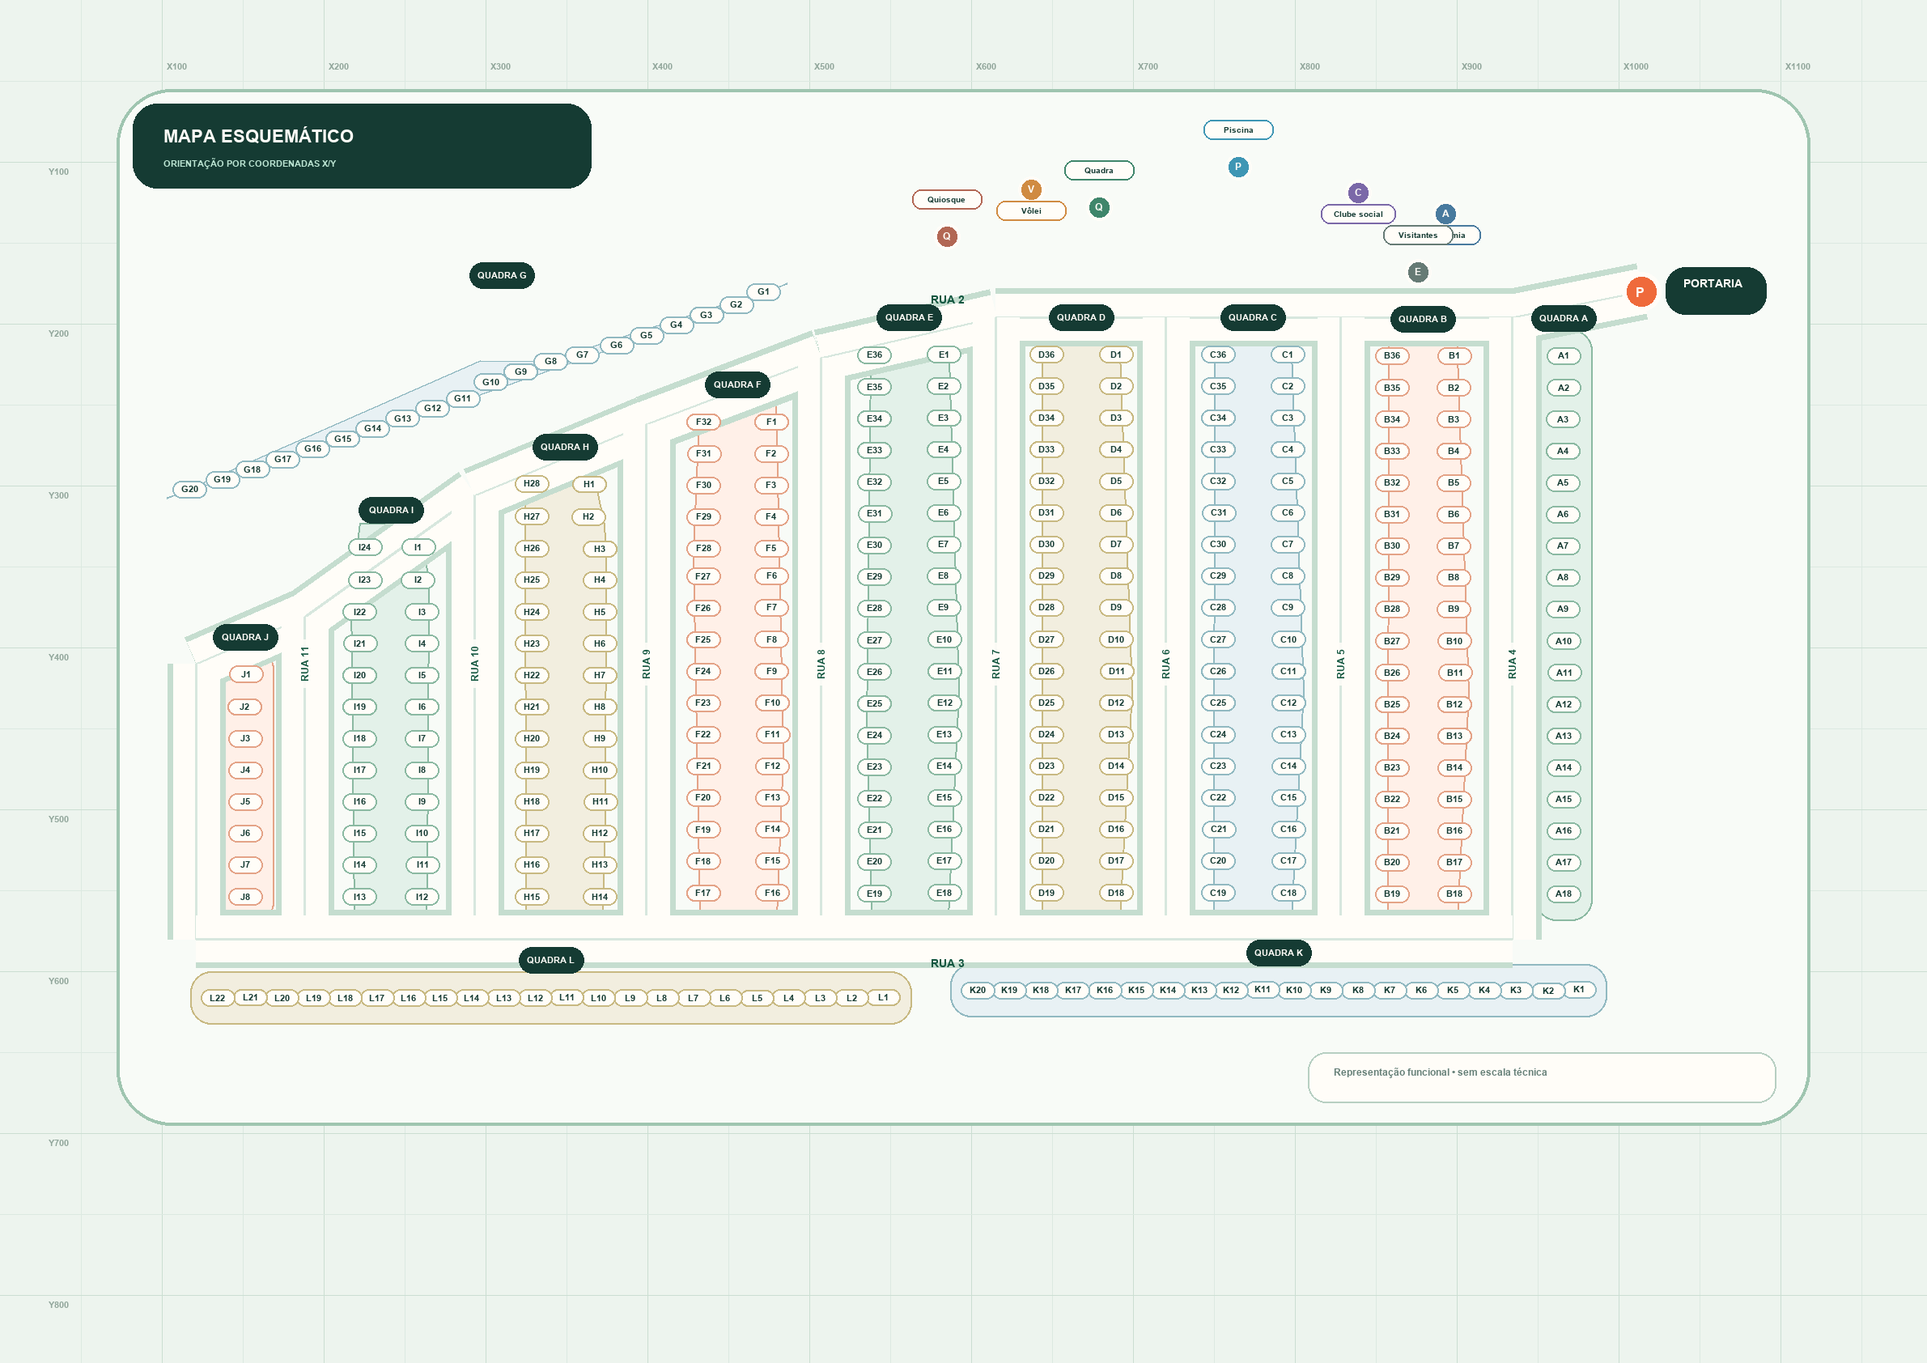
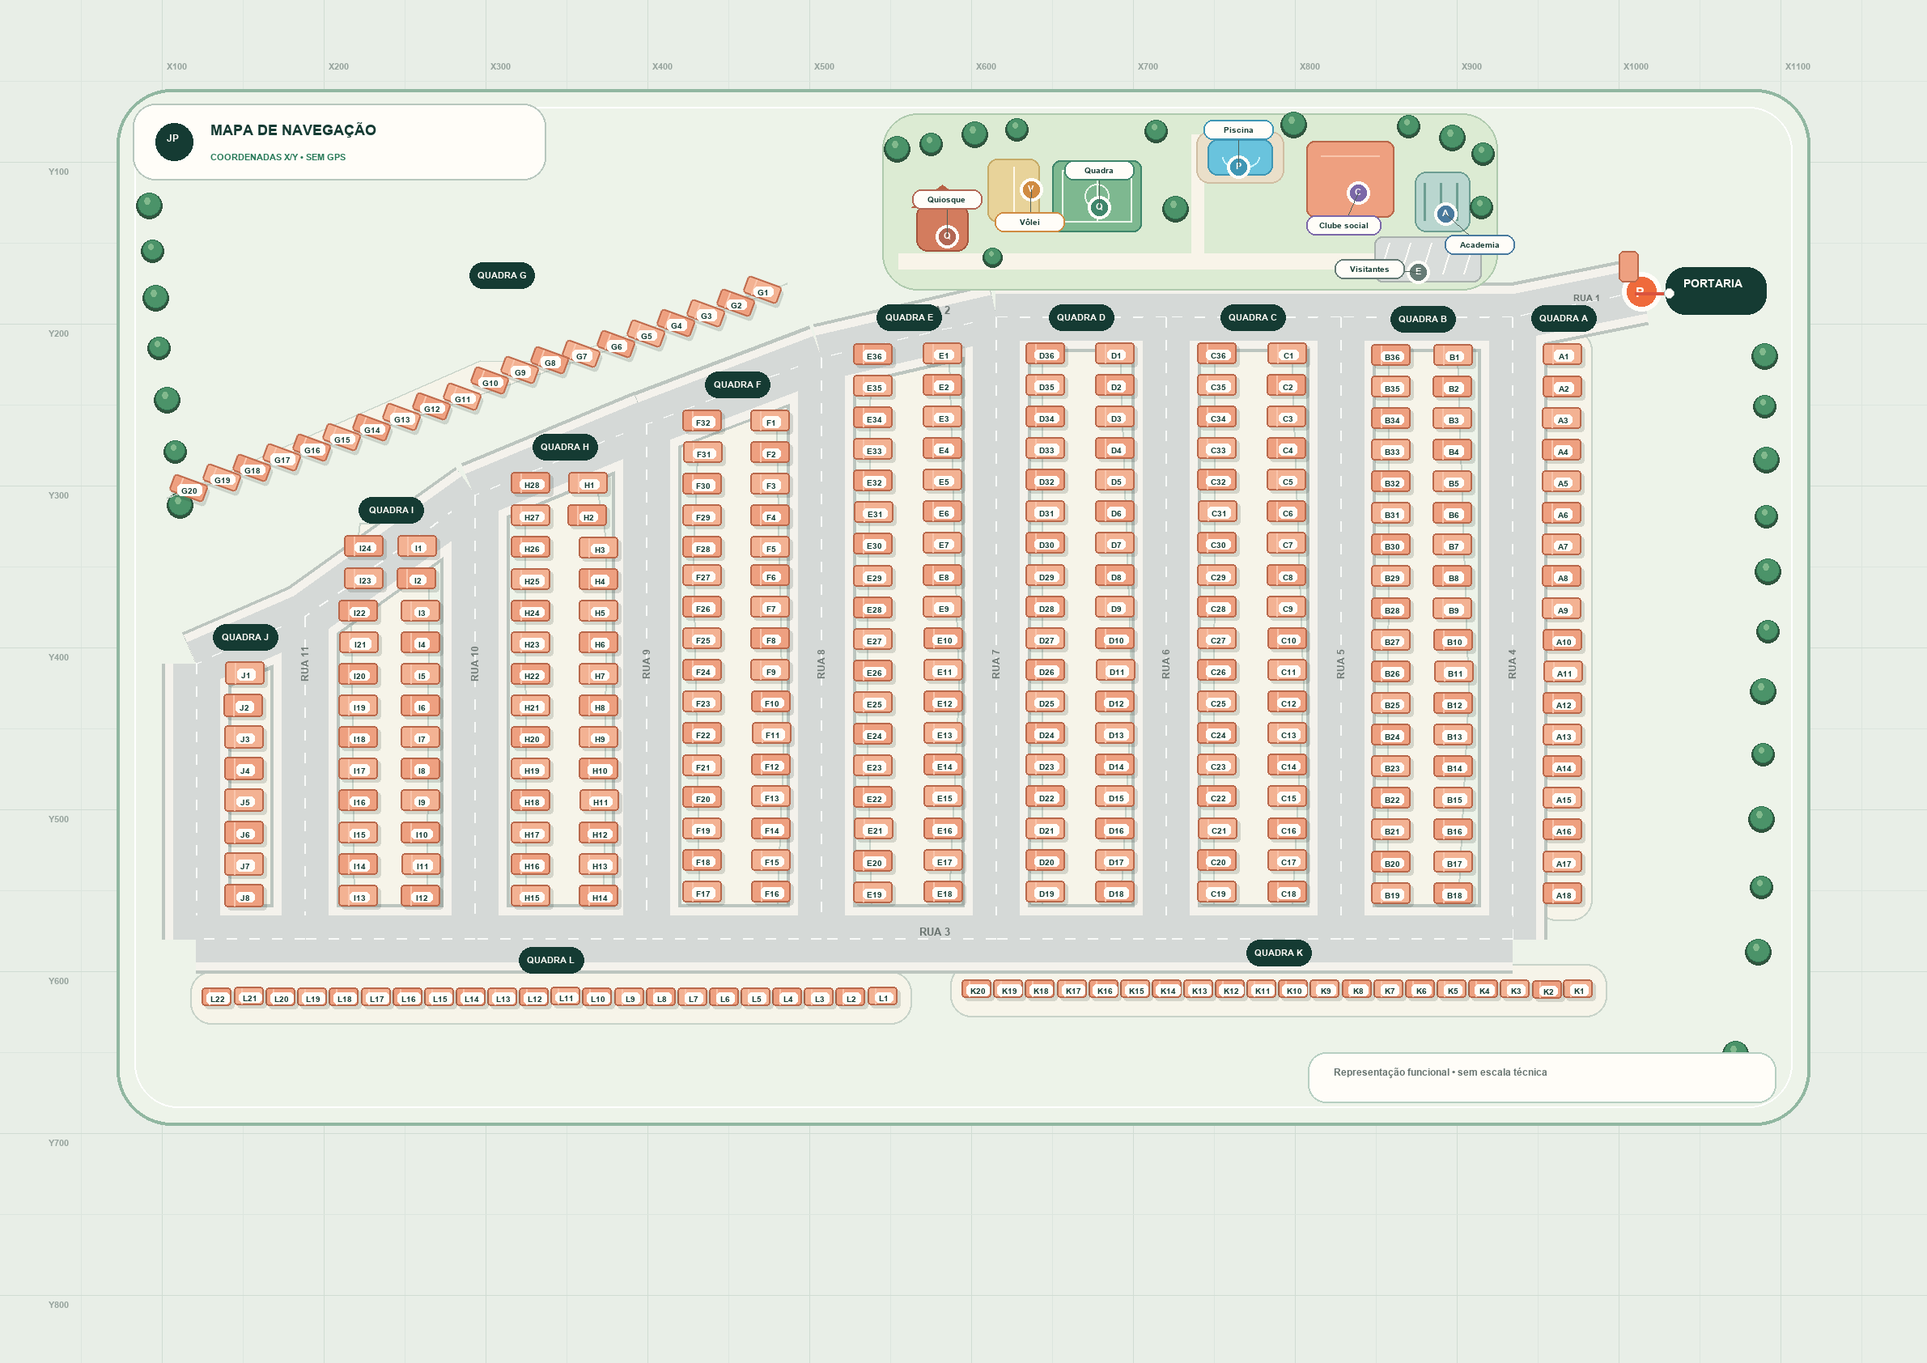
feat: add cartographic map styling

diff --git a/src/app/globals.css b/src/app/globals.css
@@ -125,10 +125,10 @@ h1 { margin: 0; font-size: clamp(24px, 3vw, 36px); letter-spacing: -.045em; line
 .condo-map { display: block; width: 100%; height: 100%; cursor: grab; touch-action: none; user-select: none; }
 .condo-map:active { cursor: grabbing; }
 .condo-map image { opacity: 1; }
-.road-network line { stroke: rgba(29, 118, 87, .18); stroke-width: 2.2; stroke-dasharray: 5 5; vector-effect: non-scaling-stroke; }
+.road-network line { stroke: rgba(29, 118, 87, .08); stroke-width: 1.7; stroke-dasharray: 4 8; vector-effect: non-scaling-stroke; }
 .house-target { cursor: pointer; outline: none; }
 .house-hit-area { fill: transparent; pointer-events: all; }
-.house-point { fill: rgba(29, 118, 87, .09); stroke: rgba(29, 118, 87, .48); stroke-width: 1; transition: fill .15s, stroke .15s; vector-effect: non-scaling-stroke; pointer-events: none; }
+.house-point { fill: transparent; stroke: transparent; stroke-width: 1; transition: fill .15s, stroke .15s; vector-effect: non-scaling-stroke; pointer-events: none; }
 .house-target:focus-visible .house-point { fill: rgba(29, 118, 87, .72); stroke: white; stroke-width: 2; }
 .house-point.quadra-selected { fill: rgba(29, 118, 87, .44); }
 .house-point.selected { fill: var(--accent); stroke: white; stroke-width: 2; }

diff --git a/scripts/generate_schematic_map.py b/scripts/generate_schematic_map.py
@@ -24,21 +24,25 @@ MAP_HEIGHT = 841.92
 SCALE = 2
 
 INK = "#153b33"
-MUTED = "#668078"
-GREEN = "#1d7657"
+MUTED = "#66736f"
+GREEN = "#287a59"
 GREEN_DARK = "#12563f"
 ACCENT = "#ef6a3b"
-PAPER = "#edf4ee"
+PAPER = "#e8eee7"
 WHITE = "#fffdf8"
-ROAD_EDGE = "#c5ddcf"
-ROAD_CENTER = "#d7e7de"
-
-BLOCK_COLORS = (
-    ("#e3f1e9", "#8bb9a2"),
-    ("#fff0e8", "#e4a387"),
-    ("#e8f1f4", "#91b9c1"),
-    ("#f2eedf", "#c8b982"),
-)
+LAND = "#edf3e9"
+LOT = "#f6f4e9"
+LOT_EDGE = "#c8d3c9"
+SIDEWALK = "#f4f2ec"
+CURB = "#bcc5bf"
+ASPHALT = "#d5d9d7"
+ROAD_MARKING = "#f8faf8"
+BUILDING = "#eea080"
+BUILDING_ALT = "#f3b293"
+BUILDING_EDGE = "#b9684b"
+WATER = "#69c3dd"
+SAND = "#e8d39a"
+PARK = "#dcebd3"
 
 
 ROAD_NODES = {
@@ -139,16 +143,16 @@ def expanded_hull(points: list[tuple[float, float]], padding: float = 15) -> lis
 def draw_grid(draw: ImageDraw.ImageDraw) -> None:
     for x in range(50, 1151, 50):
         major = x % 100 == 0
-        color = "#cbded2" if major else "#dce9e1"
+        color = "#d0dcd3" if major else "#dce5de"
         draw.line((sc(x), 0, sc(x), sc(MAP_HEIGHT)), fill=color, width=sc(0.7 if major else 0.4))
         if major:
-            draw.text(point(x + 3, 38), f"X{x}", font=font(5.5, True), fill="#91a69b")
+            draw.text(point(x + 3, 38), f"X{x}", font=font(5.5, True), fill="#96a39d")
     for y in range(50, 801, 50):
         major = y % 100 == 0
-        color = "#cbded2" if major else "#dce9e1"
+        color = "#d0dcd3" if major else "#dce5de"
         draw.line((0, sc(y), sc(MAP_WIDTH), sc(y)), fill=color, width=sc(0.7 if major else 0.4))
         if major:
-            draw.text(point(30, y + 3), f"Y{y}", font=font(5.5, True), fill="#91a69b")
+            draw.text(point(30, y + 3), f"Y{y}", font=font(5.5, True), fill="#96a39d")
 
 
 def draw_rotated_text(base: Image.Image, position: tuple[float, float], text: str) -> None:
@@ -158,11 +162,154 @@ def draw_rotated_text(base: Image.Image, position: tuple[float, float], text: st
     height = bounds[3] - bounds[1] + sc(6)
     layer = Image.new("RGBA", (width, height), (255, 255, 255, 0))
     layer_draw = ImageDraw.Draw(layer)
-    layer_draw.rounded_rectangle((0, 0, width - 1, height - 1), radius=sc(3), fill=(255, 253, 248, 225))
-    layer_draw.text((sc(4), sc(2)), text, font=label_font, fill=GREEN_DARK)
+    layer_draw.text((sc(4), sc(2)), text, font=label_font, fill="#6f7975")
     rotated = layer.rotate(90, expand=True, resample=Image.Resampling.BICUBIC)
     x, y = point(*position)
     base.alpha_composite(rotated, (x - rotated.width // 2, y - rotated.height // 2))
+
+
+def dashed_line(
+    draw: ImageDraw.ImageDraw,
+    start: tuple[float, float],
+    end: tuple[float, float],
+    fill: str,
+    width: float = 1,
+    dash: float = 7,
+    gap: float = 7,
+) -> None:
+    length = math.dist(start, end)
+    if not length:
+        return
+    ux = (end[0] - start[0]) / length
+    uy = (end[1] - start[1]) / length
+    cursor = 0.0
+    while cursor < length:
+        finish = min(length, cursor + dash)
+        draw.line(
+            (
+                point(start[0] + ux * cursor, start[1] + uy * cursor),
+                point(start[0] + ux * finish, start[1] + uy * finish),
+            ),
+            fill=fill,
+            width=sc(width),
+        )
+        cursor += dash + gap
+
+
+def draw_tree(draw: ImageDraw.ImageDraw, x: float, y: float, size: float = 6) -> None:
+    center = point(x, y)
+    draw.ellipse(
+        (center[0] - sc(size + 1), center[1] - sc(size), center[0] + sc(size + 1), center[1] + sc(size + 2)),
+        fill=(48, 84, 62, 35),
+    )
+    draw.ellipse(
+        (center[0] - sc(size), center[1] - sc(size), center[0] + sc(size), center[1] + sc(size)),
+        fill="#4b9369",
+        outline="#2f7250",
+        width=sc(.7),
+    )
+    draw.ellipse(
+        (center[0] - sc(size * .45), center[1] - sc(size * .55), center[0] + sc(size * .1), center[1]),
+        fill="#82b98d",
+    )
+
+
+def draw_building(
+    image: Image.Image,
+    x: float,
+    y: float,
+    label: str,
+    angle: float = 0,
+    width: float = 23,
+    height: float = 12,
+    alternate: bool = False,
+) -> None:
+    roof_fill = BUILDING_ALT if alternate else BUILDING
+    pixel_width, pixel_height = sc(width + 4), sc(height + 4)
+    roof = Image.new("RGBA", (pixel_width, pixel_height), (255, 255, 255, 0))
+    roof_draw = ImageDraw.Draw(roof, "RGBA")
+    roof_draw.rounded_rectangle(
+        (sc(2.8), sc(3.2), pixel_width - sc(.8), pixel_height - sc(.8)),
+        radius=sc(2),
+        fill=(38, 54, 47, 42),
+    )
+    roof_draw.rounded_rectangle(
+        (sc(1.2), sc(1.2), pixel_width - sc(2.8), pixel_height - sc(2.8)),
+        radius=sc(1.8),
+        fill=roof_fill,
+        outline=BUILDING_EDGE,
+        width=sc(.8),
+    )
+    roof_draw.line(
+        (sc(width * .30), sc(2), sc(width * .30), pixel_height - sc(3.5)),
+        fill="#f9c5ac",
+        width=sc(.8),
+    )
+    if angle:
+        roof = roof.rotate(angle, expand=True, resample=Image.Resampling.BICUBIC)
+    px, py = point(x, y)
+    image.alpha_composite(roof, (px - roof.width // 2, py - roof.height // 2))
+
+    draw = ImageDraw.Draw(image, "RGBA")
+    label_font = font(5.2, True)
+    bounds = draw.textbbox((0, 0), label, font=label_font)
+    label_width = bounds[2] - bounds[0]
+    label_height = bounds[3] - bounds[1]
+    draw.rounded_rectangle(
+        (
+            px - label_width / 2 - sc(2.3),
+            py - label_height / 2 - sc(1.6),
+            px + label_width / 2 + sc(2.3),
+            py + label_height / 2 + sc(1.4),
+        ),
+        radius=sc(2.5),
+        fill=(255, 253, 248, 224),
+    )
+    draw.text((px - label_width / 2, py - label_height / 2 - sc(.7)), label, font=label_font, fill=INK)
+
+
+def draw_common_area(draw: ImageDraw.ImageDraw) -> None:
+    rounded(draw, (545, 70, 925, 179), 22, fill=PARK, outline="#afcaae", width=sc(1.2))
+
+    # Caminhos de pedestres.
+    draw.line((point(555, 161), point(913, 161)), fill="#f8f4e9", width=sc(10))
+    draw.line((point(740, 161), point(740, 83)), fill="#f8f4e9", width=sc(8))
+
+    # Piscina e deck.
+    rounded(draw, (739, 81, 793, 113), 8, fill="#eadfc9", outline="#d0bea3", width=sc(1))
+    rounded(draw, (746, 86, 786, 108), 6, fill=WATER, outline="#3f96b4", width=sc(1.2))
+    draw.arc(tuple(sc(value) for value in (755, 90, 778, 104)), 0, 180, fill="#c9f2fb", width=sc(1))
+
+    # Quadra poliesportiva.
+    rounded(draw, (650, 99, 705, 143), 5, fill="#7eb890", outline="#3f866b", width=sc(1.2))
+    draw.rectangle(tuple(sc(value) for value in (656, 105, 699, 137)), outline="#eaf5e9", width=sc(1))
+    draw.line((point(677.5, 105), point(677.5, 137)), fill="#eaf5e9", width=sc(.8))
+    draw.ellipse(tuple(sc(value) for value in (670, 113.5, 685, 128.5)), outline="#eaf5e9", width=sc(.8))
+
+    # Vôlei de areia.
+    rounded(draw, (610, 98, 642, 137), 6, fill=SAND, outline="#c6ab68", width=sc(1))
+    draw.line((point(626, 103), point(626, 132)), fill="#fff9e9", width=sc(1))
+
+    # Quiosque e clube.
+    rounded(draw, (566, 126, 598, 155), 7, fill="#d37c5e", outline="#a3543c", width=sc(1))
+    draw.polygon([point(563, 128), point(582, 114), point(601, 128)], fill="#b86145")
+    rounded(draw, (807, 87, 861, 134), 5, fill=BUILDING, outline=BUILDING_EDGE, width=sc(1.2))
+    draw.line((point(816, 96), point(852, 96)), fill="#f9c5ac", width=sc(1))
+
+    # Academia e estacionamento.
+    rounded(draw, (874, 106, 908, 143), 7, fill="#b9d6cf", outline="#6d9e92", width=sc(1))
+    for x in (880, 890, 900):
+        draw.line((point(x, 113), point(x, 136)), fill="#6d9e92", width=sc(1.4))
+    rounded(draw, (849, 146, 915, 174), 5, fill="#d9dddb", outline="#a9b1ad", width=sc(1))
+    for x in range(858, 911, 13):
+        draw.line((point(x, 150), point(x - 6, 169)), fill=WHITE, width=sc(.8))
+
+    for x, y, size in (
+        (554, 91, 7), (575, 88, 6), (602, 82, 7), (628, 79, 6),
+        (714, 80, 6), (726, 128, 7), (799, 76, 7), (870, 77, 6),
+        (897, 84, 7), (916, 94, 6), (915, 127, 6), (613, 158, 5),
+    ):
+        draw_tree(draw, x, y, size)
 
 
 def create_map() -> Image.Image:
@@ -175,31 +322,46 @@ def create_map() -> Image.Image:
     draw = ImageDraw.Draw(image, "RGBA")
     draw_grid(draw)
 
-    rounded(draw, (72, 55, 1118, 695), 34, fill="#f8fbf7", outline="#9fc5b0", width=sc(2))
+    # Limite esquemático da área navegável.
+    rounded(draw, (72, 55, 1118, 695), 34, fill=LAND, outline="#91b7a1", width=sc(2))
+    rounded(draw, (83, 66, 1107, 684), 27, outline=(255, 255, 255, 175), width=sc(1))
+
+    # Paisagismo de borda, inspirado na leitura visual de mapas urbanos.
+    for x, y, size in (
+        (92, 126, 7), (94, 154, 6), (96, 183, 7), (98, 214, 6),
+        (103, 246, 7), (108, 278, 6), (111, 311, 7), (1090, 219, 7),
+        (1090, 250, 6), (1091, 283, 7), (1091, 318, 6), (1092, 352, 7),
+        (1092, 389, 6), (1089, 426, 7), (1089, 465, 6), (1088, 505, 7),
+        (1088, 547, 6), (1086, 587, 7), (995, 660, 6), (1020, 659, 7),
+        (1046, 656, 6), (1072, 650, 7),
+    ):
+        draw_tree(draw, x, y, size)
 
     for index, quadra in enumerate("ABCDEFGHIJKL"):
         group = grouped[quadra]
         xs = [item["x"] for item in group]
         ys = [item["y"] for item in group]
-        fill, outline = BLOCK_COLORS[index % len(BLOCK_COLORS)]
         if max(xs) - min(xs) < 8 or max(ys) - min(ys) < 8:
             box = (min(xs) - 17, min(ys) - 16, max(xs) + 17, max(ys) + 16)
-            rounded(draw, box, 13, fill=fill, outline=outline, width=sc(1.2))
+            rounded(draw, box, 13, fill=LOT, outline=LOT_EDGE, width=sc(1.2))
         else:
             hull = expanded_hull([(item["x"], item["y"]) for item in group])
             polygon = [point(x, y) for x, y in hull]
-            draw.polygon(polygon, fill=fill)
-            draw.line(polygon + [polygon[0]], fill=outline, width=sc(1.2), joint="curve")
+            draw.polygon(polygon, fill=LOT)
+            draw.line(polygon + [polygon[0]], fill=LOT_EDGE, width=sc(1.2), joint="curve")
 
     road_segments = [(ROAD_NODES[a], ROAD_NODES[b]) for a, b in ROAD_EDGES]
     for start, end in road_segments:
-        draw.line((point(*start), point(*end)), fill=ROAD_EDGE, width=sc(36))
+        draw.line((point(*start), point(*end)), fill=CURB, width=sc(43))
     for start, end in road_segments:
-        draw.line((point(*start), point(*end)), fill=WHITE, width=sc(29))
-        draw.line((point(*start), point(*end)), fill=ROAD_CENTER, width=sc(1.3))
+        draw.line((point(*start), point(*end)), fill=SIDEWALK, width=sc(39))
+    for start, end in road_segments:
+        draw.line((point(*start), point(*end)), fill=ASPHALT, width=sc(29))
+        dashed_line(draw, start, end, ROAD_MARKING, width=.8, dash=6, gap=8)
 
-    draw.text(point(575, 181), "RUA 2", font=font(7, True), fill=GREEN_DARK)
-    draw.text(point(575, 591), "RUA 3", font=font(7, True), fill=GREEN_DARK)
+    draw.text(point(568, 188), "RUA 2", font=font(6.5, True), fill="#69736f")
+    draw.text(point(568, 572), "RUA 3", font=font(6.5, True), fill="#69736f")
+    draw.text(point(972, 181), "RUA 1", font=font(5.5, True), fill="#69736f")
     for name, x in (("RUA 4", 934), ("RUA 5", 828), ("RUA 6", 720), ("RUA 7", 615),
                     ("RUA 8", 507), ("RUA 9", 399), ("RUA 10", 293), ("RUA 11", 188)):
         draw_rotated_text(image, (x, 410), name)
@@ -208,40 +370,57 @@ def create_map() -> Image.Image:
     for index, quadra in enumerate("ABCDEFGHIJKL"):
         group = grouped[quadra]
         center_x = sum(item["x"] for item in group) / len(group)
-        center_y = sum(item["y"] for item in group) / len(group)
-        fill, outline = BLOCK_COLORS[index % len(BLOCK_COLORS)]
         badge_x = center_x
         badge_y = min(item["y"] for item in group) - 23
         if quadra in "G":
             badge_x, badge_y = 310, 170
-        rounded(draw, (badge_x - 20, badge_y - 8, badge_x + 20, badge_y + 8), 8, fill=INK)
+        rounded(draw, (badge_x - 20, badge_y - 8, badge_x + 20, badge_y + 8), 8, fill=(21, 59, 51, 236))
         label = f"QUADRA {quadra}"
         label_font = font(5.5, True)
         bounds = draw.textbbox((0, 0), label, font=label_font)
         draw.text(point(badge_x - (bounds[2] - bounds[0]) / SCALE / 2, badge_y - 3), label, font=label_font, fill=WHITE)
 
-        for house in group:
+        for house_index, house in enumerate(group):
             x, y = house["x"], house["y"]
             label = f"{quadra}{house['numero']}"
-            rounded(draw, (x - 10.5, y - 5.2, x + 10.5, y + 5.2), 4.8, fill=WHITE, outline=outline, width=sc(0.8))
-            house_font = font(5.4, True)
-            bounds = draw.textbbox((0, 0), label, font=house_font)
-            text_width = (bounds[2] - bounds[0]) / SCALE
-            draw.text(point(x - text_width / 2, y - 3.1), label, font=house_font, fill=INK)
+            if quadra == "G":
+                draw_building(image, x, y, label, angle=-20, width=22, height=11, alternate=house_index % 2 == 0)
+            elif quadra in "KL":
+                draw_building(image, x, y, label, width=18, height=11, alternate=house_index % 2 == 0)
+            elif quadra == "J":
+                draw_building(image, x, y, label, width=24, height=14, alternate=house_index % 2 == 0)
+            else:
+                draw_building(image, x, y, label, width=24, height=13, alternate=house_index % 2 == 0)
 
-    for index, (label, icon, x, y, color) in enumerate(POIS):
+    draw = ImageDraw.Draw(image, "RGBA")
+    draw_common_area(draw)
+
+    label_positions = {
+        "Piscina": (765, 80),
+        "Clube social": (830, 139),
+        "Quadra": (679, 105),
+        "Vôlei": (636, 137),
+        "Quiosque": (585, 123),
+        "Academia": (914, 151),
+        "Visitantes": (846, 166),
+    }
+
+    # Rótulos cartográficos das áreas comuns, com marcadores consistentes.
+    for label, icon, x, y, color in POIS:
         marker = point(x, y)
-        draw.ellipse((marker[0] - sc(8), marker[1] - sc(8), marker[0] + sc(8), marker[1] + sc(8)), fill=color, outline=WHITE, width=sc(2))
-        icon_font = font(6, True)
+        draw.ellipse((marker[0] - sc(7), marker[1] - sc(7), marker[0] + sc(7), marker[1] + sc(7)), fill=color, outline=WHITE, width=sc(2))
+        icon_font = font(5.6, True)
         bounds = draw.textbbox((0, 0), icon, font=icon_font)
         draw.text((marker[0] - (bounds[2] - bounds[0]) / 2, marker[1] - sc(3.3)), icon, font=icon_font, fill=WHITE)
-        offset_y = -23 if index % 2 == 0 else 13
+        label_x, label_y = label_positions[label]
+        if math.dist((x, y), (label_x, label_y)) > 18:
+            draw.line((point(x, y), point(label_x, label_y)), fill=(77, 95, 87, 115), width=sc(.7))
         label_width = max(43, len(label) * 3.8)
-        rounded(draw, (x - label_width / 2, y + offset_y - 6, x + label_width / 2, y + offset_y + 6), 5.5, fill=(255, 253, 248, 235), outline=color, width=sc(0.8))
+        rounded(draw, (label_x - label_width / 2, label_y - 6, label_x + label_width / 2, label_y + 6), 5.5, fill=(255, 253, 248, 235), outline=color, width=sc(0.8))
         poi_font = font(5.2, True)
         bounds = draw.textbbox((0, 0), label, font=poi_font)
         text_width = (bounds[2] - bounds[0]) / SCALE
-        draw.text(point(x - text_width / 2, y + offset_y - 3), label, font=poi_font, fill=INK)
+        draw.text(point(label_x - text_width / 2, label_y - 3), label, font=poi_font, fill=INK)
 
     port_x, port_y = ROAD_NODES["portaria"]
     port = point(port_x, port_y)
@@ -250,11 +429,18 @@ def create_map() -> Image.Image:
     rounded(draw, (1029, 165, 1091, 194), 12, fill=INK)
     draw.text(point(1040, 171), "PORTARIA", font=font(7, True), fill=WHITE)
 
-    rounded(draw, (82, 64, 365, 116), 15, fill=(21, 59, 51, 238))
-    draw.text(point(101, 78), "MAPA ESQUEMÁTICO", font=font(11, True), fill=WHITE)
-    draw.text(point(101, 98), "ORIENTAÇÃO POR COORDENADAS X/Y", font=font(5.7, True), fill="#bce5d3")
+    # Cabine, cancela e acesso principal.
+    rounded(draw, (1000, 155, 1012, 174), 3, fill=BUILDING, outline=BUILDING_EDGE, width=sc(1))
+    draw.line((point(1010, 181), point(1031, 181)), fill="#d9533f", width=sc(2))
+    draw.ellipse(tuple(sc(value) for value in (1028, 178, 1034, 184)), fill=WHITE, outline="#9ea7a3", width=sc(.7))
 
-    rounded(draw, (808, 650, 1097, 681), 11, fill=(255, 253, 248, 230), outline="#b7cfc2", width=sc(0.8))
+    rounded(draw, (82, 64, 337, 111), 14, fill=(255, 253, 248, 242), outline="#b8c7be", width=sc(.8))
+    draw.ellipse(tuple(sc(value) for value in (96, 76, 119, 99)), fill=INK)
+    draw.text(point(103, 82), "JP", font=font(6.2, True), fill=WHITE)
+    draw.text(point(130, 75), "MAPA DE NAVEGAÇÃO", font=font(9, True), fill=INK)
+    draw.text(point(130, 94), "COORDENADAS X/Y • SEM GPS", font=font(5.5, True), fill=GREEN)
+
+    rounded(draw, (808, 650, 1097, 681), 11, fill=(255, 253, 248, 235), outline="#b7cfc2", width=sc(0.8))
     draw.text(point(824, 659), "Representação funcional • sem escala técnica", font=font(6.2, True), fill=MUTED)
     return image.convert("RGB")
 
